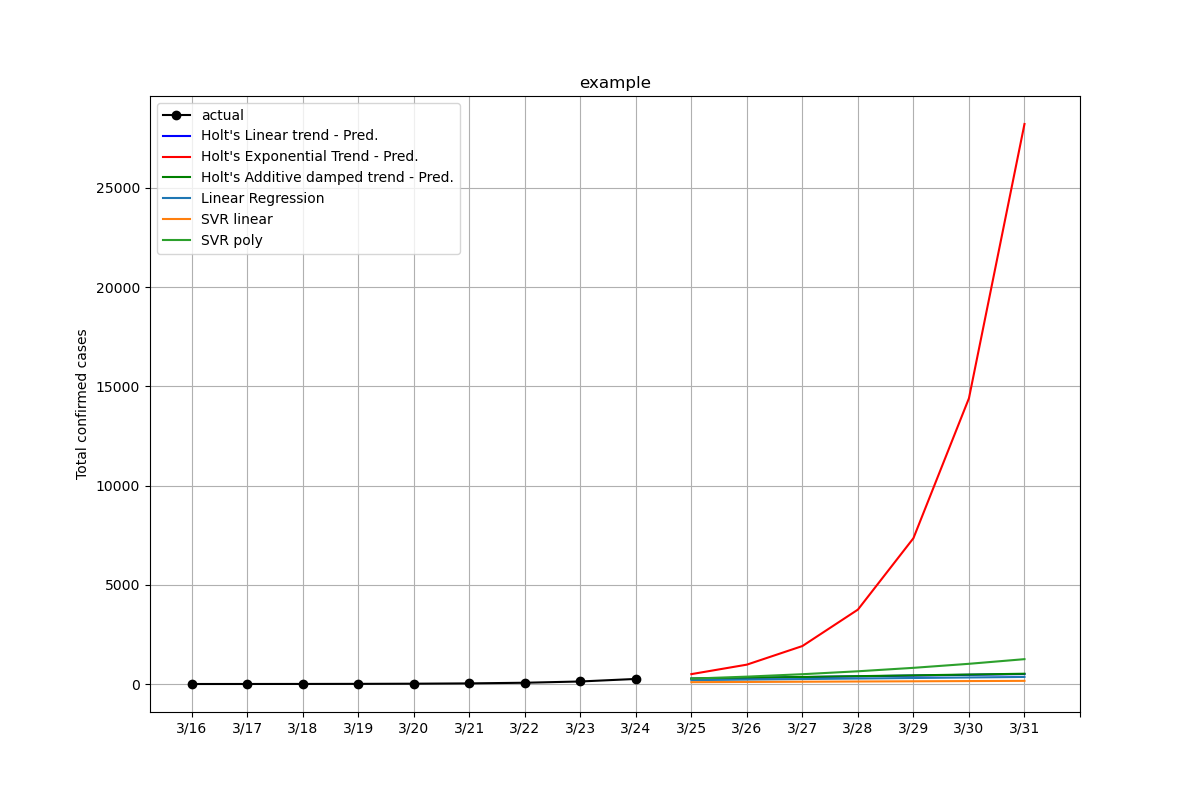
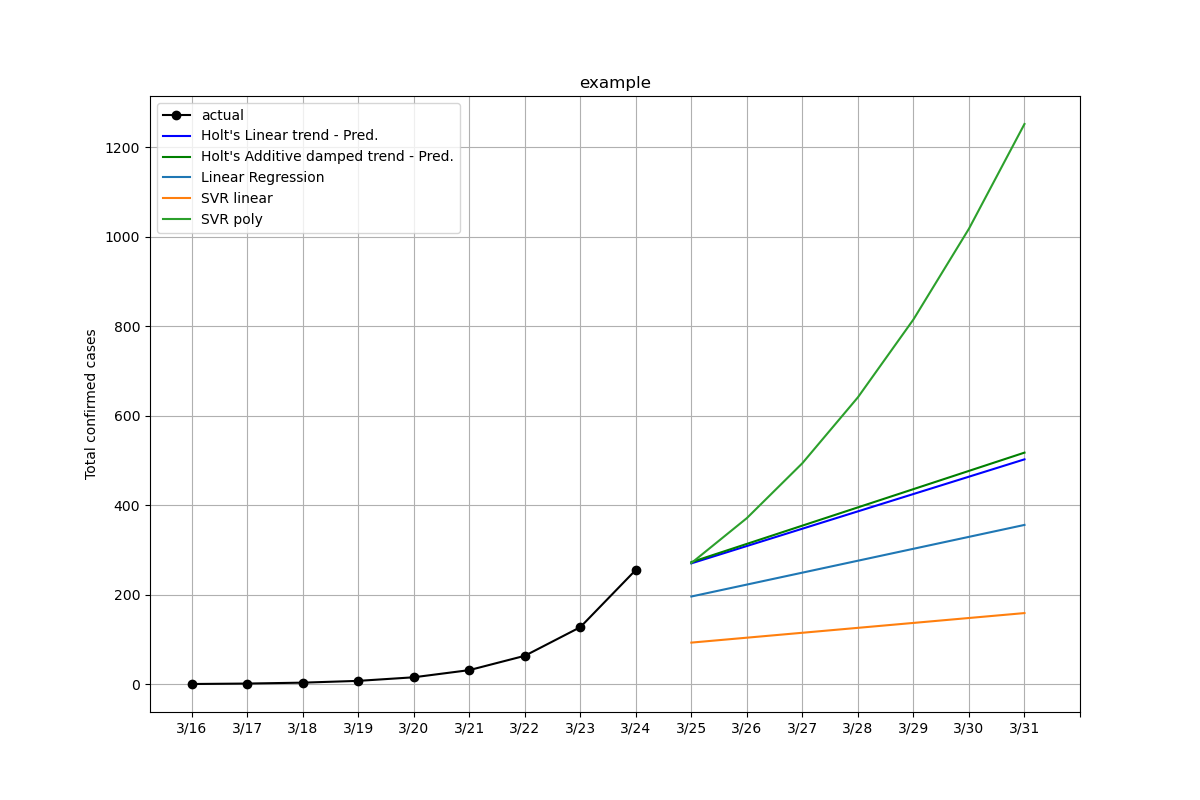
- better example image

diff --git a/predict.py b/predict.py
@@ -11,7 +11,7 @@ from datetime import date, timedelta, datetime
 ########## SETTINGS ##########
 forecast_days = 7
 show_fit_on_actual = False
-show_that_one_giant_red_line = True
+show_that_one_giant_red_line = False
 ignore_shitty_ones = True
 file_to_load = "example"
 ##############################
